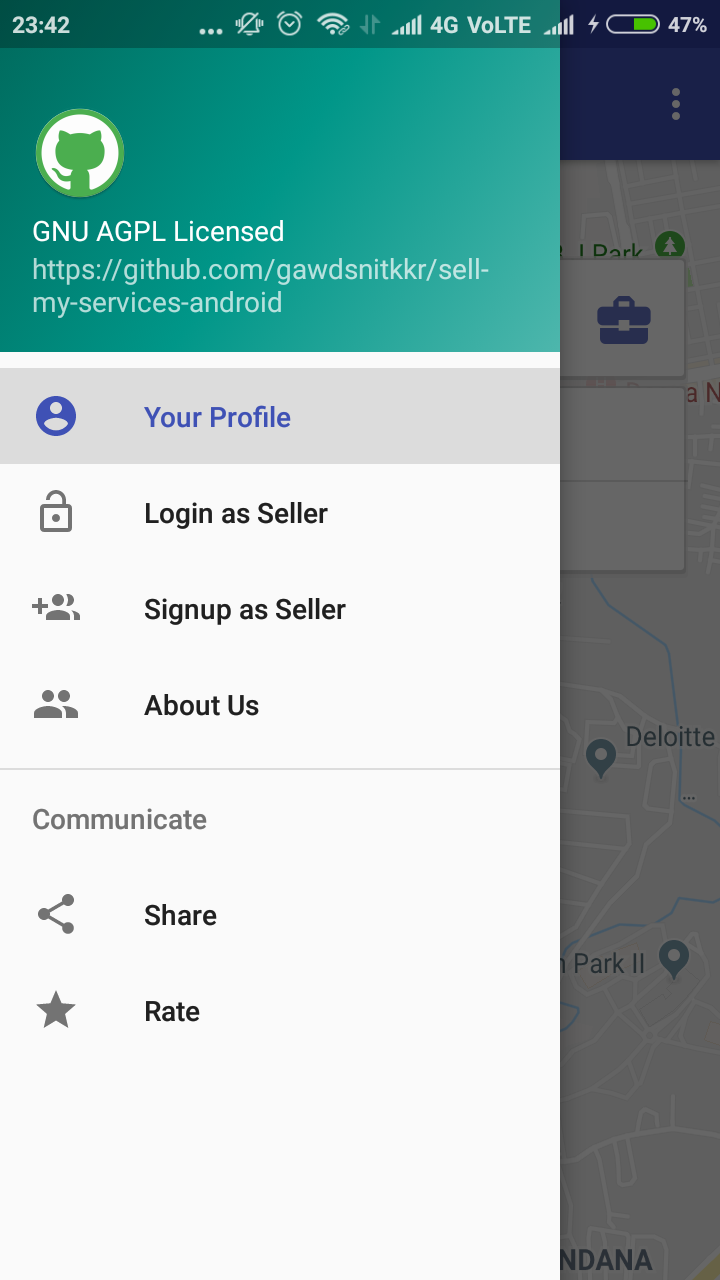
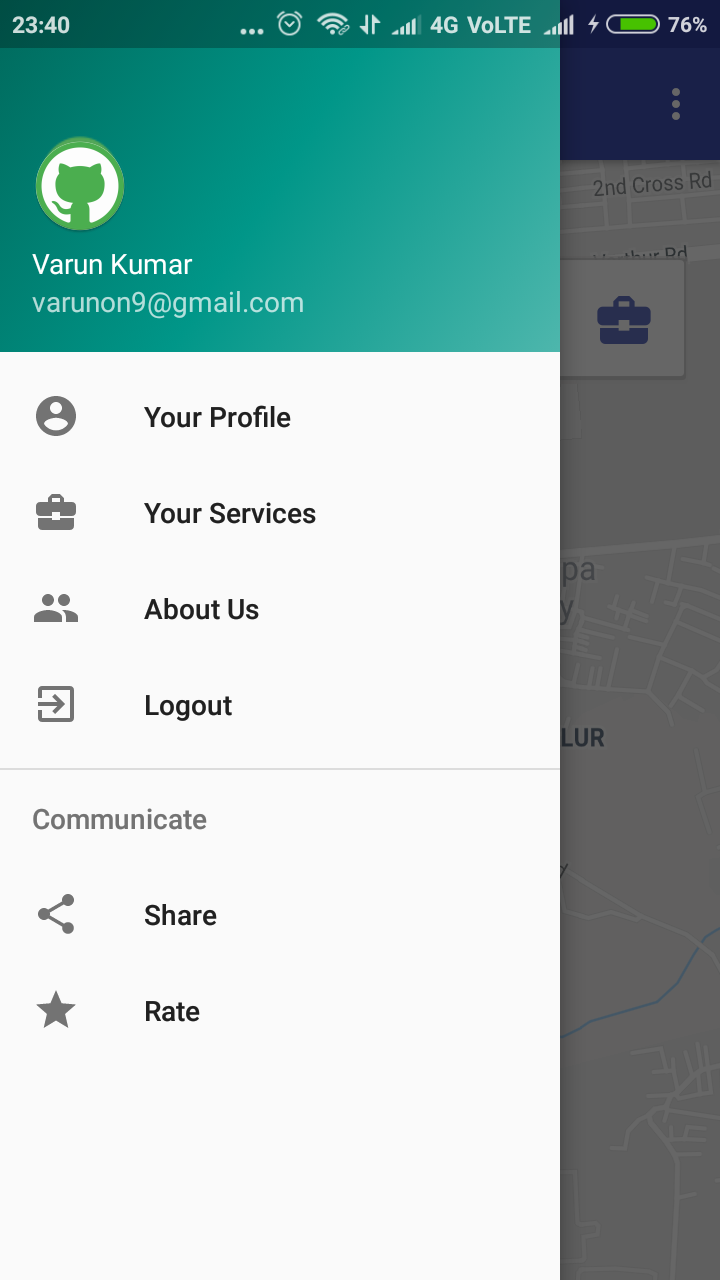
added login screen - updated README

diff --git a/README.md b/README.md
@@ -19,4 +19,4 @@ services. These services then can be searched by seekers in their nearby locatio
 |  |  |
 | --- | --- |
 |![MainActivity](./screenshots/main-activity.png) | ![NavigationDrawer](./screenshots/navigation-drawer.png)|
-|![SearchActivity](./screenshots/search-activity.png) | ![AboutUs](./screenshots/about-us.png)|
+|![SearchActivity](./screenshots/search-activity.png) | ![Login](./screenshots/login.png)|
